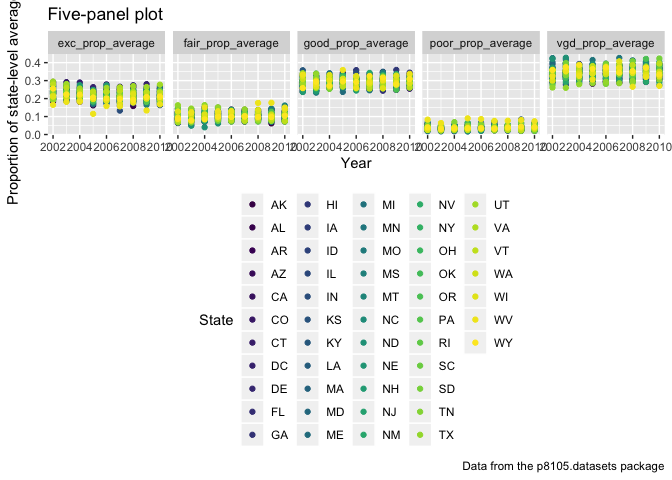
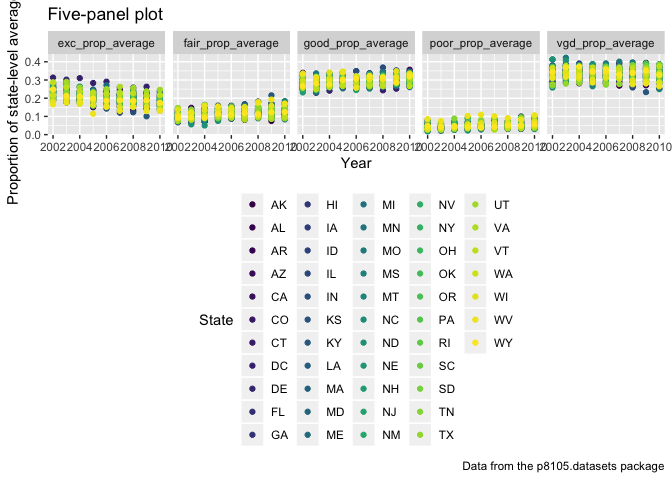
revise for problem 1

diff --git a/p8105_hw3_xy2397.md b/p8105_hw3_xy2397.md
@@ -14,7 +14,7 @@ library(p8105.datasets)
 
 **Read and clean the data**
 
-• format the data to use appropriate variable names; • focus on the “Overall Health” topic • include only responses from “Excellent” to “Poor” • organize responses as a factor taking levels from “Excellent” to “Poor”
+• format the data to use appropriate variable names; • focus on the “Overall Health” topic • include only responses from “Excellent” to “Poor” • organize responses as a factor taking levels ordered from “Excellent” to “Poor”
 
 ``` r
 brfss = 
@@ -28,15 +28,8 @@ brfss =
   # filter the data to only focus on "Overall Health" topic
   filter(., topic == "Overall Health") %>% 
   
-   # mutate responses as a factor taking levels from “Excellent” to “Poor”
-  mutate(., response = factor(response)) %>% 
-  
-  # include only responses from “Excellent” to “Poor”
-  select(., year, locationabbr, locationdesc, response, data_value) %>%
-  spread(key = "response", value = "data_value") %>% 
-  
-  # clean up variable names again
-  janitor::clean_names()
+  # mutate responses as a factor taking levels ordered from “Excellent” to “Poor”
+  mutate(., response = factor(response, levels  = c("Excellent", "Very good", "Good", "Fair", "Poor")))
 ```
 
 **Answering the questions using this dataset**
@@ -44,15 +37,12 @@ brfss =
 • In 2002, which states were observed at 7 locations?
 
 ``` r
-brfss_2002 = 
-  brfss %>% 
-  filter(year == "2002") %>%
+brfss %>% 
+  filter(year == "2002") %>% 
+  distinct(locationdesc, .keep_all = TRUE) %>% 
   group_by(locationabbr) %>% 
   summarize(number = n()) %>% 
   filter(number == 7)
-
-
-brfss_2002
 ```
 
     ## # A tibble: 3 x 2
@@ -62,12 +52,15 @@ brfss_2002
     ## 2 FL                7
     ## 3 NC                7
 
+By filter the full dataset for year "2002" and distinct the locationdesc, we obtain one observation from each location. When we group the data by locationabbr and count for the number of observations, we can finally get the number of locations in each states.
+
 So we can see that states "CT", "FL" and "NC" were observed at 7 locations.
 
-• Make a “spaghetti plot” that shows the number of observations in each state from 2002 to 2010.
+• Make a “spaghetti plot” that shows the number of locations in each state from 2002 to 2010.
 
 ``` r
   brfss %>% 
+  distinct(locationdesc, .keep_all = TRUE) %>% 
   group_by(year, locationabbr) %>% 
   summarize(number = n()) %>% 
   ggplot(aes(x = year , y = number, color = locationabbr)) +
@@ -82,11 +75,18 @@ So we can see that states "CT", "FL" and "NC" were observed at 7 locations.
 
 ![](p8105_hw3_xy2397_files/figure-markdown_github/unnamed-chunk-4-1.png)
 
+By making a plot to show the number of distinct countis in each state, we need first to distinct the locationdesc, after that count for the number of observations of each states by group the dataset by locationabbr and year.
+
+From what we draw in "Spaghetti plot", we can find that the number of locations in each states observed is increased from 2002 to 2010 (except for few states such as "OK" decreased from 2005 to 2009), and state "FL" increased a lot for a fast speed from 2007 to 2010.
+
 • Make a table showing, for the years 2002, 2006, and 2010, the mean and standard deviation of the proportion of “Excellent” responses across locations in NY State.
 
 ``` r
 brfss %>% 
   filter(year %in% c("2002", "2006", "2010"), locationabbr == "NY") %>% 
+  select(1:8) %>% 
+  spread(key = "response", value = "sample_size") %>% 
+  janitor::clean_names() %>% 
   mutate(prop = excellent / (excellent + very_good + good + fair + poor)) %>% 
   group_by(year) %>% 
   summarize(mean = mean(prop, na.rm = TRUE),
@@ -96,26 +96,32 @@ brfss %>%
 
 |  year|   mean|     sd|
 |-----:|------:|------:|
-|  2002|  0.241|  0.045|
-|  2006|  0.225|  0.040|
-|  2010|  0.227|  0.036|
+|  2002|  0.248|  0.040|
+|  2006|  0.218|  0.039|
+|  2010|  0.203|  0.046|
+
+For the results, we can find that year 2002 has the highest mean prooportion of "Excellent" and thar year 2006 has the lowest standard deviation of rooportion of "Excellent".
 
 • For each year and state, compute the average proportion in each response category (taking the average across locations in a state). Make a five-panel plot that shows, for each response category separately, the distribution of these state-level averages over time.
 
 ``` r
 brfss %>% 
-  mutate(exc_prop = excellent / (excellent + very_good + good + fair + poor)) %>%
-  mutate(vgd_prop = very_good / (excellent + very_good + good + fair + poor)) %>%
-  mutate(gd_prop = good / (excellent + very_good + good + fair + poor)) %>%
-  mutate(fa_prop = fair / (excellent + very_good + good + fair + poor)) %>%
-  mutate(pr_prop = poor / (excellent + very_good + good + fair + poor)) %>% 
+  select(1:8) %>% 
+  spread(key = "response", value = "sample_size") %>% 
+  janitor::clean_names() %>% 
+  mutate(exc_prop = excellent / (excellent + very_good + good + fair + poor),
+         vgd_prop = very_good / (excellent + very_good + good + fair + poor),
+         gd_prop = good / (excellent + very_good + good + fair + poor),
+         fa_prop = fair / (excellent + very_good + good + fair + poor),
+         pr_prop = poor / (excellent + very_good + good + fair + poor)) %>% 
   group_by(year, locationabbr) %>% 
   summarize(exc_prop_average = mean(exc_prop,na.rm = TRUE),
             vgd_prop_average = mean(vgd_prop, na.rm = TRUE),
             good_prop_average = mean(gd_prop, na.rm = TRUE),
             fair_prop_average = mean(fa_prop, na.rm = TRUE),
             poor_prop_average = mean(pr_prop, na.rm = TRUE)) %>% 
-  gather(., key = "response", value = "average_prop", exc_prop_average:poor_prop_average) %>%    ggplot(aes(x = year, y = average_prop, color = locationabbr)) +
+  gather(., key = "response", value = "average_prop", exc_prop_average:poor_prop_average) %>%    
+  ggplot(aes(x = year, y = average_prop, color = locationabbr)) +
   geom_point()+
   facet_grid(~response) +
   labs(
@@ -132,6 +138,8 @@ brfss %>%
 ```
 
 ![](p8105_hw3_xy2397_files/figure-markdown_github/unnamed-chunk-6-1.png)
+
+From the five-panel plot, we can find that the "poor" response has the lowest average proportion among the response and "Very good" response has the highest average proportion. And for response "Excellent", the average proportion is decreased from year 2002 to 2010.
 
 Problem 2
 =========
@@ -199,7 +207,7 @@ instacart %>%
 
 Since there are 134 different kinds of aisles, it is not readale to put the name of aisles in x-axis, so we use aisle\_id instead of aisle name to represent different kinds of aisles and color the number of items differently to indicate different aisles. In this way, the plot is more readable for others.
 
-• Make a table showing the most popular item aisles “baking ingredients”, “dog food care”, and “packaged vegetables fruits”
+• Make a table showing the most popular item in each of the aisles “baking ingredients”, “dog food care”, and “packaged vegetables fruits”
 
 ``` r
 instacart %>% 
